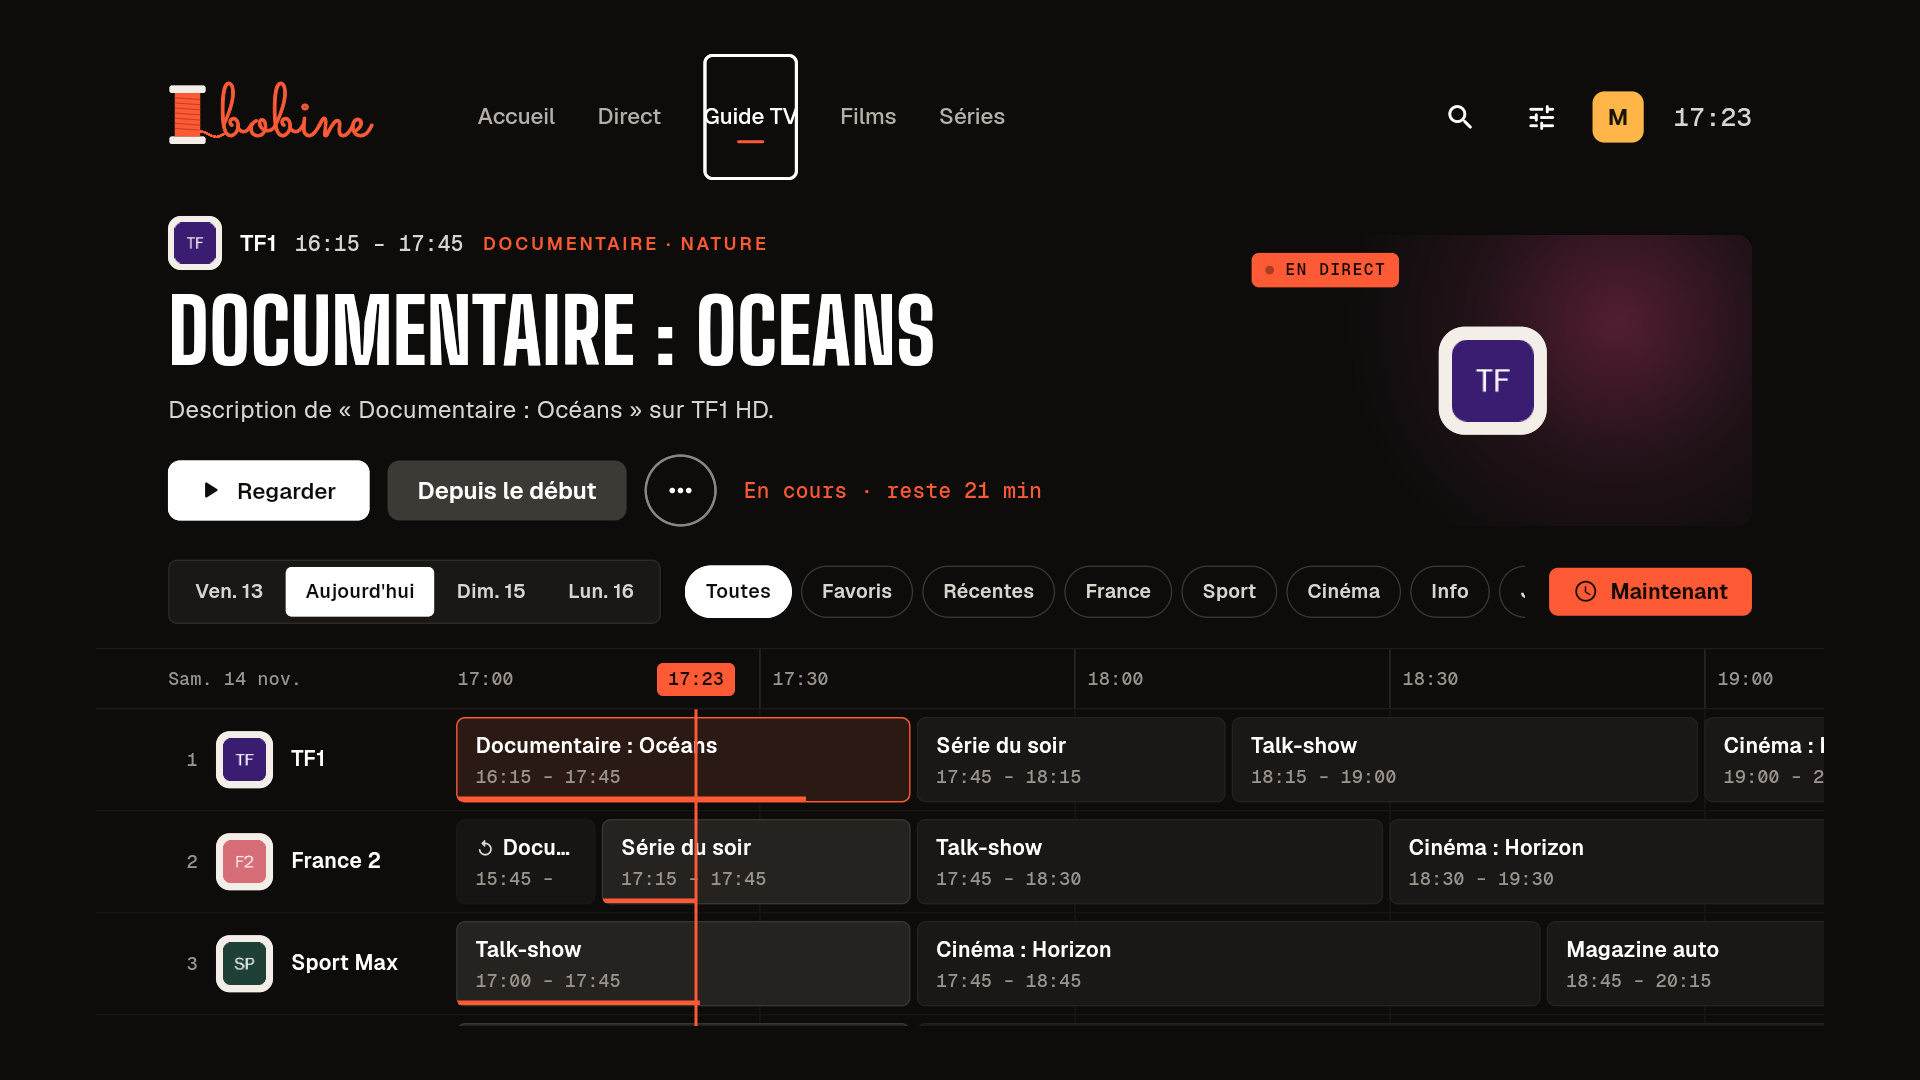
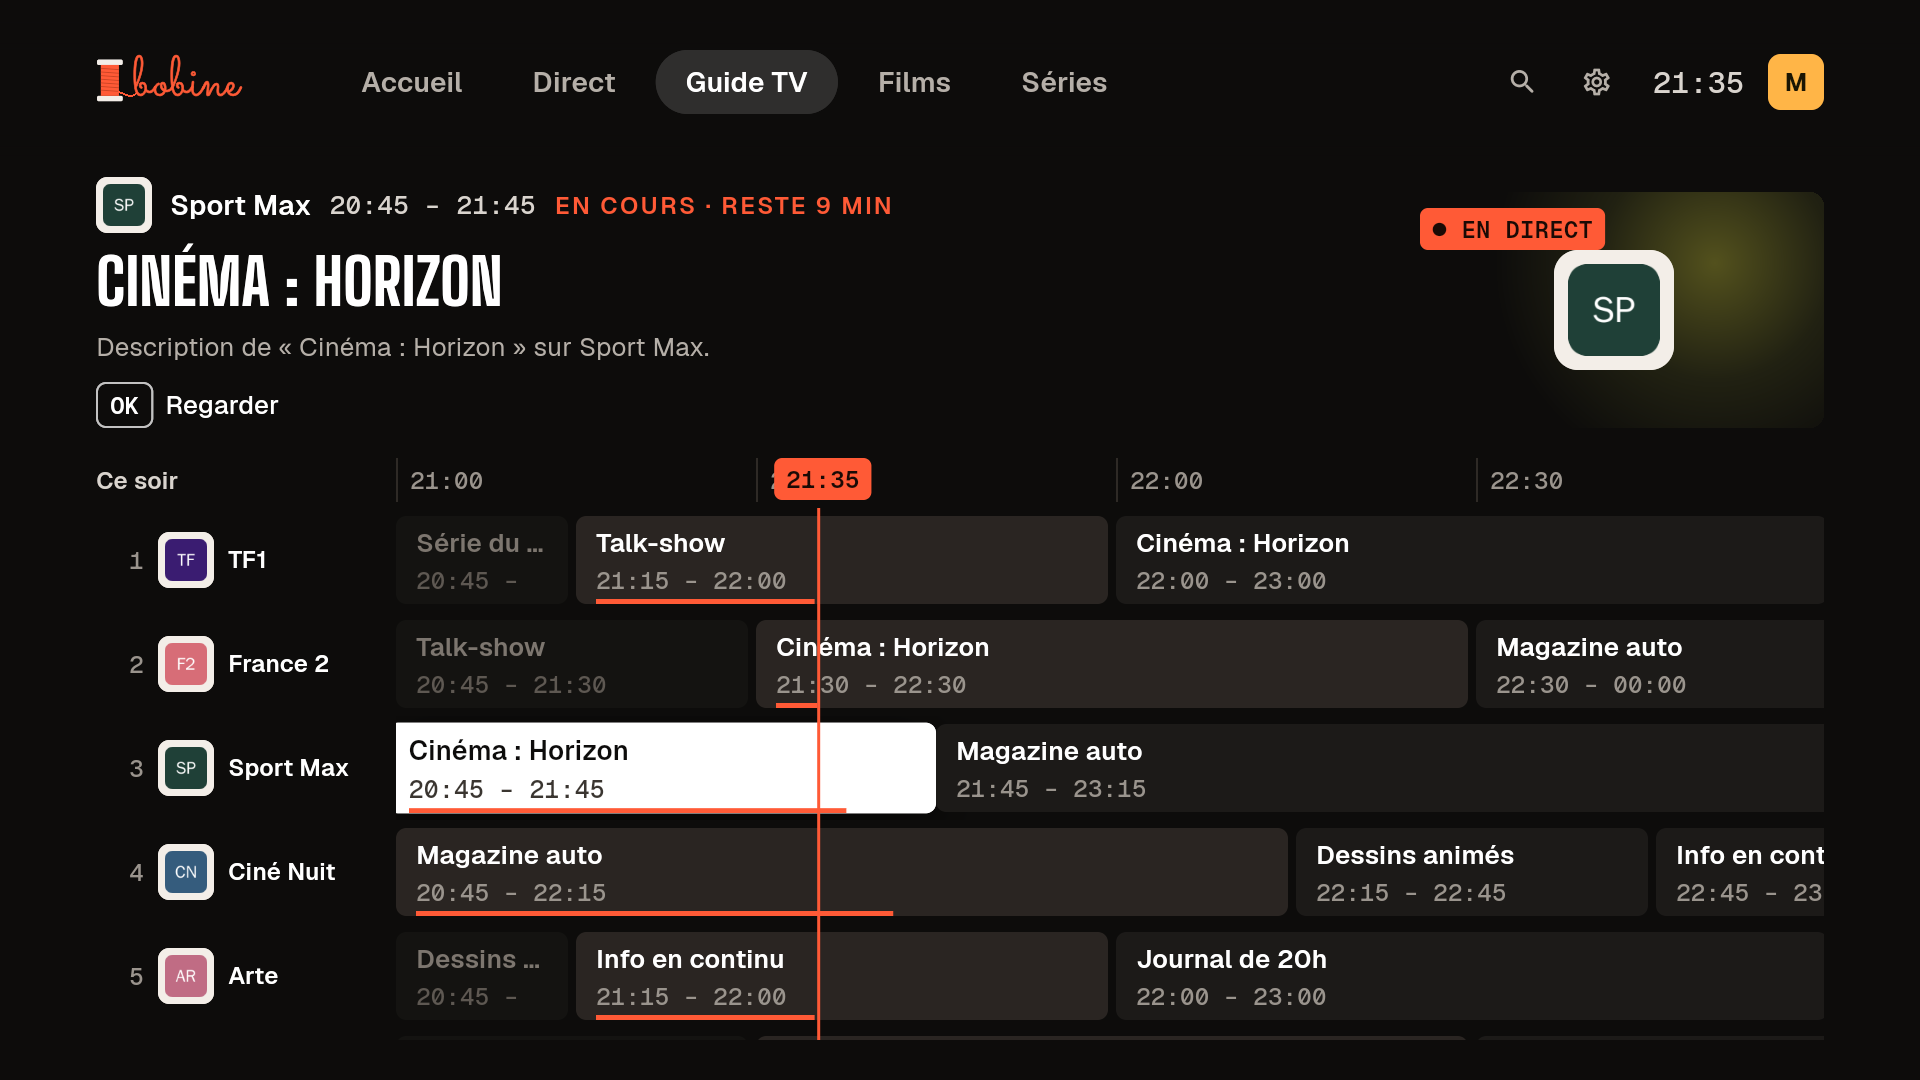
Play Store : captures de la nouvelle interface télé
Huit captures 1920 × 1080 faites sur la version télé avec le faux
serveur (mires, titres inventés) : Accueil, Direct, Guide TV, Films,
page d'une série, lecteur du direct, Recherche, Réglages. L'ancienne
« fiche d'un film » (écran ordinateur) disparaît.

Les écrans télé n'affichent plus de barres de défilement (un ordinateur
qui les montre en dessinait).

Claude-Session: https://claude.ai/code/session_01HwKVrDTYWuwNFm4NcXeKZp

diff --git a/lib/tv/tv_stage.dart b/lib/tv/tv_stage.dart
@@ -45,7 +45,12 @@ class TvStage extends StatelessWidget {
                     ? EdgeInsets.zero
                     : outer.viewInsets / math.min(outer.size.width / size.width, outer.size.height / size.height),
               ),
-              child: ClipRect(child: child),
+              // No scroll bars on a TV (a computer running the TV screens
+              // would draw them).
+              child: ScrollConfiguration(
+                behavior: ScrollConfiguration.of(context).copyWith(scrollbars: false),
+                child: ClipRect(child: child),
+              ),
             ),
           ),
         ),

diff --git a/docs/store/fiche.md b/docs/store/fiche.md
@@ -56,9 +56,9 @@ Textes et réponses à reprendre dans la Play Console. Limites de Google entre p
 |---|---|---|
 | Icône | `docs/store/icon-512.png` | 512 × 512 |
 | Bannière Android TV | `docs/store/banner-1280x720.png` | 1280 × 720 |
-| Captures Android TV | `docs/store/screenshots/` (6 faites, sur mires) | 1920 × 1080, 6 à 8 |
+| Captures Android TV | `docs/store/screenshots/` (8, interface télé, sur mires) | 1920 × 1080, 6 à 8 |
 
-Les captures se font avec le faux serveur (`tool/fake_xtream.py`, médias de `tool/generate_test_media.sh`) : uniquement des mires et des titres inventés, aucun logo ni contenu réel. Écrans conseillés : accueil, Direct, Guide TV, Films, fiche d'un film, lecteur avec contrôles, multi-écran, paramètres.
+Les captures se font avec le faux serveur (`tool/fake_xtream.py`, médias de `tool/generate_test_media.sh`) : uniquement des mires et des titres inventés, aucun logo ni contenu réel. Écrans : Accueil, Direct, Guide TV, Films (pastilles de catégories), page d'une série, lecteur du direct avec son habillage, Recherche, Réglages. Pour les refaire : la version Linux en mode télé (`BOBINE_TV=1`), une capture plein écran 1920 × 1080 par écran, l'application relancée avant chacune.
 
 ## Sécurité des données (formulaire)
 
